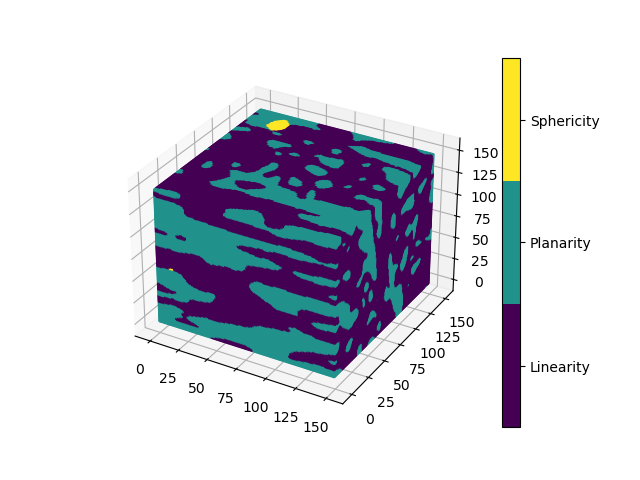
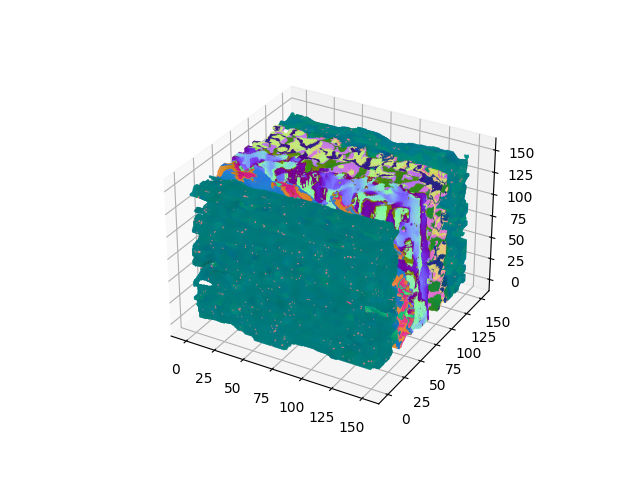
Final plot

Changed region(s): [[0.1875, 0.0938, 0.9375, 0.9062], [0.625, 0.8438, 0.6562, 0.875]]

diff --git a/visualizer-morten.py b/visualizer-morten.py
@@ -12,8 +12,9 @@ shape_measure = np.load('shape_measure.npy')
 best_direction = np.load('best_direction.npy')
 
 place_holder = np.ones((shape_measure.shape[0], shape_measure.shape[1], shape_measure.shape[2]), dtype=bool)
-mask = np.argmax(shape_measure, axis=3)
-mask = shape_measure[:,:,:,0] > 0.8
+# mask = np.argmax(shape_measure, axis=3) == 0
+# print(np.shape(mask))
+mask = shape_measure[:,:,:,0] > 0.5
 mask = mask.astype(bool)
 # new_mask = np.zeros_like(mask)
 # new_mask[mask == 0] = 1
@@ -51,7 +52,7 @@ cmap = cm.get_cmap('viridis', 3)
 ##########
 fig = plt.figure()
 ax = fig.add_subplot(projection='3d')
-sp = ax.scatter(*np.where(mask), c=colorspace, s=1, alpha=1)
+sp = ax.scatter(*np.where(mask), c=colorspace, s=0.2, alpha=1)
 # To add a colorbar, we dont want the alpha-value to affect the colorbar, so we will plot points not in image
 # p = ax.scatter([900,900,900], [900,900,900], [900,900,900], c=[0,1,2], cmap=cmap)
 # cbar = fig.colorbar(sp, ax=ax, ticks=[0.33, 1, 1.66], alpha=1)

diff --git a/data_generator.py b/data_generator.py
@@ -6,7 +6,7 @@ from tqdm import tqdm
 
 # Load the image
 im = tifffile.imread('multicube.tif').astype(float)/255
-S_ish = calculates_S(im, 9, 1)
+S_ish = calculates_S(im, 9, 2)
 
 
 # Initialize arrays to hold dominant direction and shape measures
